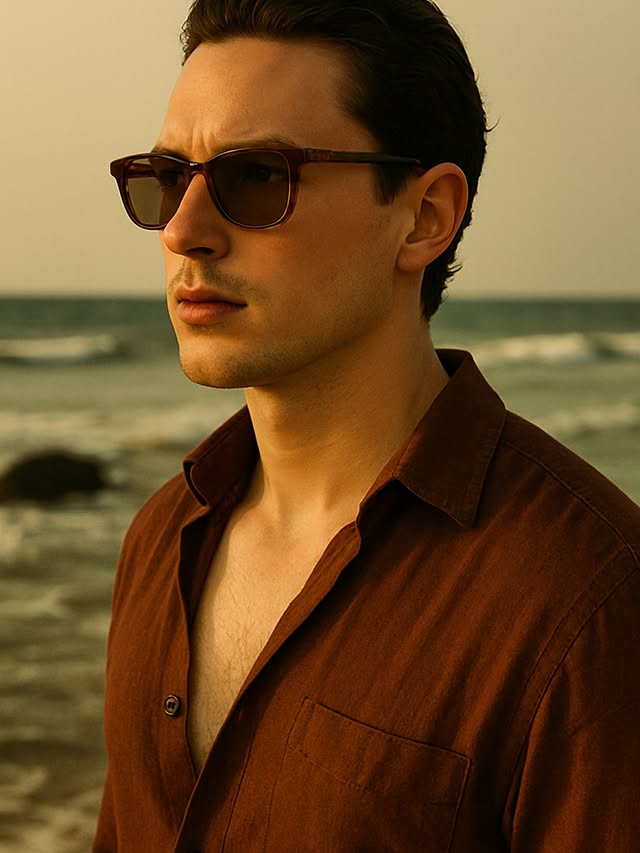
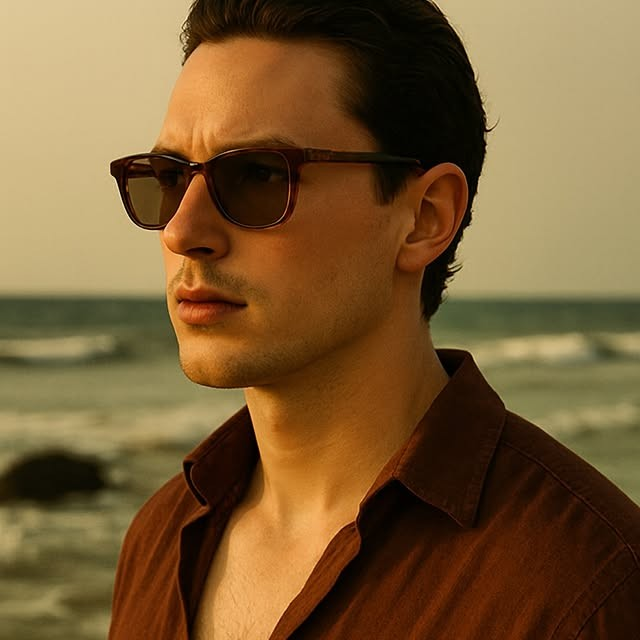
Update Explore and AllProductsTemplate components for improved layout and styling. Remove unused search parameters in Login component. Update HomePage descriptions for clarity and conciseness. Replace model image with a new version.

diff --git a/src/pages/HomePage.tsx b/src/pages/HomePage.tsx
@@ -14,17 +14,17 @@ export default function HomePage() {
             <Explore />
             <CategorizedProducts
                 title="Venoire's Most Loved"
-                description="Discover the favorites our customers can't get enough of. These best sellers are handpicked for their timeless style, premium quality, and exceptional value. Elevate your wardrobe with pieces that define effortless luxury and everyday sophistication."
+                description="Discover the favorites our customers can't get enough of. These best sellers are handpicked for their timeless style, premium quality, and exceptional value. "
                 catalog="Best Seller"
             />
             <CategorizedProducts
                 title="Fresh Finds: New Arrivals"
-                description="Be the first to explore our latest additions. From modern silhouettes to classic essentials, our new arrivals are designed to keep you ahead of the trends. Refresh your look with exclusive pieces crafted for the season."
+                description="Be the first to explore our latest additions. From modern silhouettes to classic essentials, our new arrivals are designed to keep you ahead of the trends. "
                 catalog="New Arrival"
             />
             <CategorizedProducts
                 title="On Trend Now"
-                description="Step into the spotlight with our trending collection. These sought-after styles are making waves for a reason—bold, refined, and ready to make a statement. Shop what’s hot and set your own trend."
+                description="Step into the spotlight with our trending collection. These sought-after styles are making waves for a reason—bold, refined, and ready to make a statement. "
                 catalog="Trending"
             />
         </div>

diff --git a/src/components/HomePage/Explore.tsx b/src/components/HomePage/Explore.tsx
@@ -2,14 +2,14 @@ import React from 'react'
 
 export default function Explore() {
     return (
-        <div className="flex justify-between min-h-screen max-w-7xl mx-auto mb-10">
+        <div className="flex justify-between max-w-7xl mx-auto mb-10">
             {/* Left Column - Text Content (2 parts) */}
-            <div className="w-[45%] bg-white flex items-center px-8 py-12">
-                <div className="max-w-md space-y-6">
+            <div className="w-[45%] bg-white flex  px-8 py-12 h-[85vh]">
+                <div className="max-w-md space-y-16">
                     <h1 className="text-4xl font-serif text-gray-900 leading-tight">
                         Elevate your everyday elegance with Venoire's timeless collection
                     </h1>
-                    <p className="text-lg text-gray-700 leading-relaxed">
+                    <p className="text-xl text-gray-700 leading-relaxed">
                         Designed to dress the world in quiet confidence and curated luxury, our collection embodies effortless refinement for every occasion.
                     </p>
                     <button className="px-8 py-3 border border-gray-900 text-gray-900 uppercase tracking-wide hover:bg-gray-900 hover:text-white transition-colors duration-300">
@@ -23,7 +23,7 @@ export default function Explore() {
                 <img
                     src="/model.jpg"
                     alt="Man in summer attire on a boat"
-                    className="object-cover w-full h-full"
+                    className="object-cover w-full h-[85vh]"
                 />
             </div>
         </div>

diff --git a/src/components/Product/AllProductsTemplate.tsx b/src/components/Product/AllProductsTemplate.tsx
@@ -235,7 +235,7 @@ export default function AllProductTemplate(props: {
                 const visibleOptions = showAll[filter.key] ? filterDef.options : filterDef.options.slice(0, MAX_VISIBLE_OPTIONS);
                 return (
                     <div key={filter.key} className="mb-4">
-                        <div className="font-bold text-base mb-2">{filter.label}</div>
+                        <div className=" text-base mb-2 text-black">{filter.label}</div>
                         <div className="flex flex-col gap-2">
                             {visibleOptions.map(option => {
                                 const checked = selected[filter.key]?.includes(option.value);
@@ -311,7 +311,7 @@ export default function AllProductTemplate(props: {
         <div className="max-w-7xl mx-auto min-h-screen bg-white mt-45 flex flex-col">
             {/* Header */}
             <div className="w-full px-8 py-8 bg-white border-b border-gray-300">
-                <h1 className="text-3xl font-bold text-black tracking-tight">{headers.title}</h1>
+                <h1 className="text-3xl font-serif text-black tracking-tight">{headers.title}</h1>
                 <p className="text-gray-600 mt-2 text-base">{headers.description}</p>
             </div>
             {/* Top Bar */}

diff --git a/src/app/auth/page.tsx b/src/app/auth/page.tsx
@@ -4,7 +4,10 @@ import { useState, useEffect } from "react";
 import { FaEnvelope, FaLock, FaUser } from "react-icons/fa";
 import { FiEye, FiEyeOff } from "react-icons/fi";
 // import { useAuth } from "@/context/AuthContext";
-import { useRouter, useSearchParams } from "next/navigation";
+import {
+    useRouter,
+    // useSearchParams
+} from "next/navigation";
 
 export default function Login() {
     const [isLogin, setIsLogin] = useState(true);
@@ -18,7 +21,7 @@ export default function Login() {
 
     // const { login, register, loginWithGoogle, resetPassword, needsProfileCompletion } = useAuth();
     const router = useRouter();
-    const searchParams = useSearchParams();
+    // const searchParams = useSearchParams();
     // const redirectUrl = searchParams.get('redirect');
 
     const togglePasswordVisibility = () => {

diff --git a/src/components/common/Navbar.tsx b/src/components/common/Navbar.tsx
@@ -125,7 +125,7 @@ export default function Navbar() {
     return (
         <div className="w-full fixed top-0 z-50">
             {/* 1st Level - Black Promo Strip with Golden Text */}
-            <div className={`bg-black text-yellow-400 py-2 overflow-hidden transition-all duration-300 ${isScrolled ? 'h-0 py-0 hidden' : 'h-auto py-2 opacity-100'}`}>
+            <div className={`bg-black text-yellow-400 py-1 overflow-hidden transition-all duration-300 ${isScrolled ? 'h-0 py-0 hidden' : 'h-auto py-2 opacity-100'}`}>
                 <div className="animate-marquee whitespace-nowrap">
                     <span className="text-sm font-medium">
                         Get additional 15% discount on your first purchase. Use code: LPAPPORDER *T&C Apply

diff --git a/src/components/common/Footer.tsx b/src/components/common/Footer.tsx
@@ -35,7 +35,6 @@ export default function Footer() {
                                     <Shield className="w-8 h-8 text-white" />
                                 </div>
                                 <h4 className="font-medium">Quality Material</h4>
-                                <h4 className="font-medium">used</h4>
                             </div>
                             <div className="flex flex-col items-center">
                                 <div className="w-16 h-16 bg-gray-800 rounded-full flex items-center justify-center mb-3">
